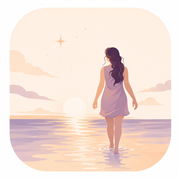
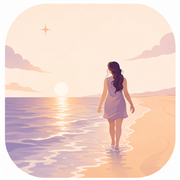
Icona aggiornata (versione 01:42) + cache-bust ?v=3

diff --git a/install/index.html b/install/index.html
@@ -19,7 +19,7 @@
 <meta name="apple-mobile-web-app-capable" content="yes">
 <meta name="apple-mobile-web-app-status-bar-style" content="black-translucent">
 <meta name="apple-mobile-web-app-title" content="Cammino Interiore">
-<link rel="apple-touch-icon" href="/src/icon-180.png?v=2">
+<link rel="apple-touch-icon" href="/src/icon-180.png?v=3">
 
 <link rel="preconnect" href="https://fonts.googleapis.com">
 <link rel="preconnect" href="https://fonts.gstatic.com" crossorigin>
@@ -161,7 +161,7 @@ footer{
 
 <div class="card">
   <div class="icon-wrap">
-    <img class="app-icon" src="/src/icon-192.png?v=2" alt="Cammino Interiore">
+    <img class="app-icon" src="/src/icon-192.png?v=3" alt="Cammino Interiore">
   </div>
   <h1>Cammino Interiore</h1>
   <p class="tagline">Il tuo percorso di crescita interiore</p>

diff --git a/app/index.html b/app/index.html
@@ -8,7 +8,7 @@
 <meta name="apple-mobile-web-app-capable" content="yes">
 <meta name="apple-mobile-web-app-status-bar-style" content="black-translucent">
 <meta name="apple-mobile-web-app-title" content="Cammino Interiore">
-<link rel="apple-touch-icon" href="/src/icon-180.png?v=2">
+<link rel="apple-touch-icon" href="/src/icon-180.png?v=3">
 <link rel="preconnect" href="https://fonts.googleapis.com">
 <link rel="preconnect" href="https://fonts.gstatic.com" crossorigin>
 <link href="https://fonts.googleapis.com/css2?family=Cinzel:wght@400;500;600;700&family=Cormorant+Garamond:wght@400;500;600;700&display=swap" rel="stylesheet">

diff --git a/sw.js b/sw.js
@@ -4,7 +4,7 @@ importScripts('https://pwa.elisasoulmedium.com/cammino-interiore/sw-core.js');
 // ─── Aggiornamento automatico: strategia "network-first" ────────────────────
 // Quando sei ONLINE l'app carica SEMPRE l'ultima versione dalla rete.
 // Quando sei OFFLINE usa l'ultima versione salvata in cache.
-const CACHE = 'cammino-v2';
+const CACHE = 'cammino-v3';
 
 self.addEventListener('fetch', function(event) {
   const req = event.request;